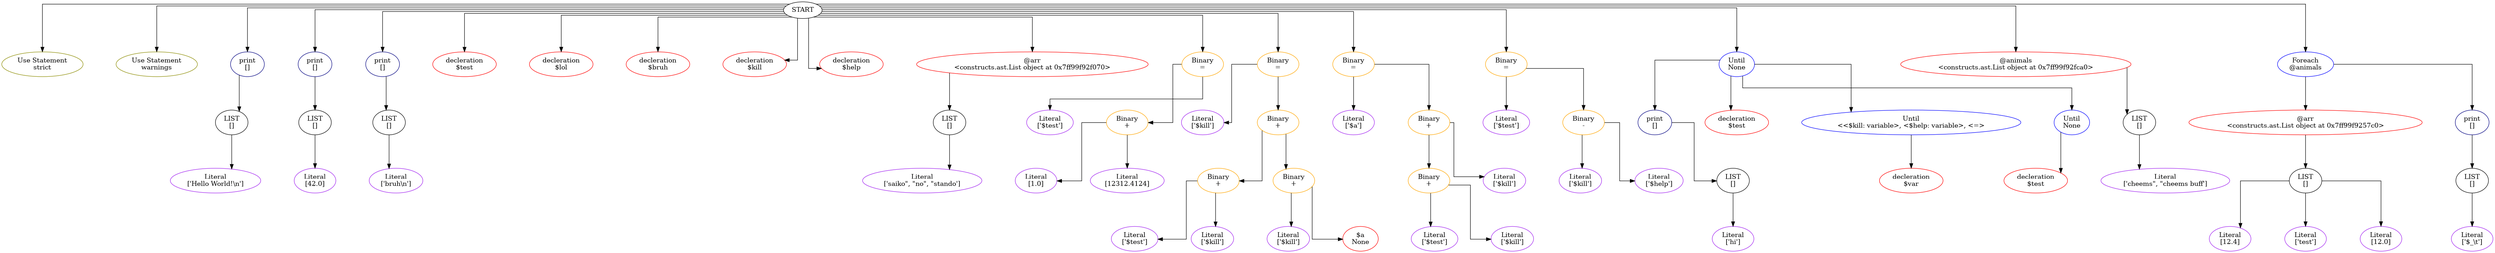
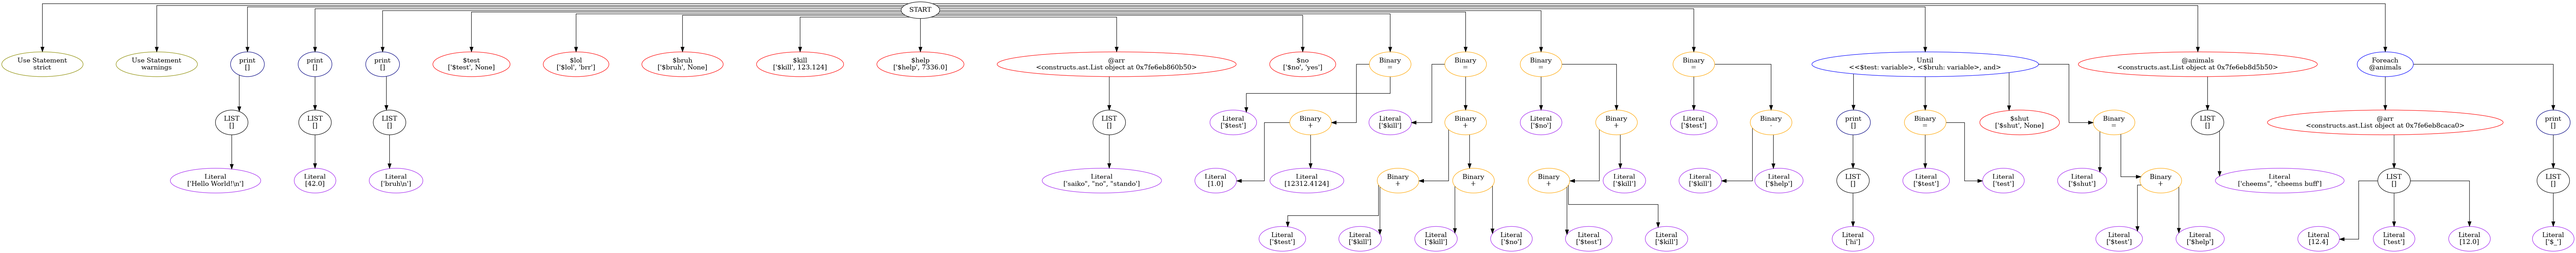
ICG complete

diff --git a/icg.py b/icg.py
@@ -1,11 +1,12 @@
 from constructs.ast import *
+from constructs.symbol_table import SymbolInfo, SymbolTable
+
 class Quad:
     dest = None
     op1 = None
     op2 = None
     operator = None
-
-    #  func_name = None
+#  func_name = None
 
     def __init__(self, dest, op1, op2, operator):
         self.dest = dest
@@ -23,10 +24,16 @@ class IntermediateCode:
         #  self.code_list: List[Quad] = {Quad.func_name: []}
         self.code_list: List[Quad] = []
         self.temp_var_count = 0
+        self.label_count = 0
+        self.loop_stack = []
 
     def get_new_temp_var(self):
         self.temp_var_count += 1
         return "t" + str(self.temp_var_count)
+
+    def get_new_label(self):
+        self.label_count += 1
+        return "LABEL_" + str(self.label_count)
 
     def add_to_list(self, code: Quad):
         self.code_list.append(code)
@@ -34,47 +41,189 @@ class IntermediateCode:
 
     def print_three_address_code(self):
         for i in self.code_list:
-            print("{} = {} {} {}".format(i.dest, i.op1, i.operator, i.op2))
-        #  for i in self.code_list:
-        #      print("{} : ".format(i))
-        #      for j in range(len(self.code_list[i])):
-        #          print("%5d:\t" % j, self.code_list[i][j])
+            dest = i.dest
+            op1 = i.op1
+            operator = i.operator
+            op2 = i.op2
+
+            if isinstance(dest, SymbolInfo):
+                dest = dest.name
+            if isinstance(op1, SymbolInfo):
+                op1 = op1.name
+            if isinstance(op2, SymbolInfo):
+                op2 = op2.name
+            if operator == '=':
+                print("{} = {}".format(dest, op1))
+            elif operator == 'Label: ':
+                print("{}{}".format(operator, dest))
+            elif operator == 'if':
+                print("{} {} goto {}".format(operator, op1, dest))
+            elif operator == 'ifFalse':
+                print("{} goto {}".format(operator, dest))
+            elif operator == 'print':
+                print("call print")
+            elif operator == 'push':
+                print("push {}".format(dest))
+            elif operator == 'use':
+                print("call use")
+            elif operator == 'call_return':
+                print("{} = call {}".format(dest, op1))
+            elif operator == 'goto':
+                print("goto {}".format(dest))
+            elif operator == '++':
+                op = op1
+                if(op1 is None):
+                    op = op2
+                print("{} = {} + 1".format(dest, op))
+            else:
+                print("{} = {} {} {}".format(dest, op1, operator, op2))
 
 
 
-def _recur_codegen(node, ic):
+def _recur_codegen(node, ic: IntermediateCode, symtab: SymbolTable):
     # process all child nodes before parent
     # ast is from right to left, so need to traverse in reverse order
 
-    node_class_name = node.__class__.__name__
+    if isinstance(node, Until):
+        l = ic.get_new_label()
+        ic.add_to_list(Quad(l, None, None, "Label: "))
+        true_l = ic.get_new_label()
+        false_l = ic.get_new_label()
+        condition = node.data
+        condition_res = _recur_codegen(condition, ic, symtab)
+        ic.add_to_list(Quad(true_l, condition_res.name, None, "if"))
+        ic.add_to_list(Quad(false_l, None, None, "ifFalse"))
+        ic.add_to_list(Quad(true_l, None, None, "Label: "))
+        symtab.enter_scope()
+        body = node.children
+        # body.reverse()
+        for i in body:
+            _recur_codegen(i, ic, symtab)
+        symtab.leave_scope()
+        node.children = []
+        ic.add_to_list(Quad(l, None, None, "goto"))
+        ic.add_to_list(Quad(false_l, None, None, "Label: "))
+
+    elif isinstance(node, Foreach):
+        lab = ic.get_new_label()
+        ic.add_to_list(Quad(lab, None, None, "Label: "))
+        true_l = ic.get_new_label()
+        false_l = ic.get_new_label()
+        iterator = node.data
+        # i = 0
+        t_i = ic.get_new_temp_var()
+        symtab.add_if_not_exists(t_i)
+        i = symtab.get_symbol(t_i)
+        i.value = 0
+        ic.add_to_list(Quad(i.name, 0, None, '='))
+        # l = range(iterator)
+        t_l = ic.get_new_temp_var()
+        symtab.add_if_not_exists(t_l)
+        l = symtab.get_symbol(t_l)
+        ic.add_to_list(Quad(iterator, None, None, "push"))
+        ic.add_to_list(Quad(l.name, "len", None, "call_return"))
+        # i < l
+        t_r = ic.get_new_temp_var()
+        symtab.add_if_not_exists(t_r)
+        r = symtab.get_symbol(t_l)
+        ic.add_to_list(Quad(r.name, i.name, l.name, '<'))
+        # checking condition
+        # res = _recur_codegen(iterator, ic, symtab)
+        ic.add_to_list(Quad(true_l, r.name, None, "if"))
+        ic.add_to_list(Quad(false_l, None, None, "ifFalse"))
+        ic.add_to_list(Quad(true_l, None, None, "Label: "))
+        # body
+        symtab.enter_scope()
+        body = node.children
+        ic.loop_stack.append((i, iterator))
+        # body.reverse()
+        for ibrr in body:
+            _recur_codegen(ibrr, ic, symtab)
+        symtab.leave_scope()
+        # i++
+        ic.add_to_list(Quad(i.name, i.name, None, '++'))
+        node.children = []
+        ic.add_to_list(Quad(lab, None, None, "goto"))
+        ic.add_to_list(Quad(false_l, None, None, "Label: "))
 
     new_children = []
-    for child in reversed(node.children):
-        new_children.append(_recur_codegen(child, ic))
+    print("PRINTING NODE CHILDREN:", node.children)
+    for child in node.children:
+        new_children.append(_recur_codegen(child, ic, symtab))
 
     new_children.reverse()
+    return_val = None
 
-    return_val = []
+    if isinstance(node, (BinOP, RelationalExpr, LogicalExprBin)):
+        if node.operator == '=':
+            ic.add_to_list(Quad(new_children[1], new_children[0], None, node.operator))
+            return_val = new_children[1]
+        else:
+            temp = ic.get_new_temp_var()
+            symtab.add_if_not_exists(temp)
+            temp_symbol = symtab.get_symbol(temp)
+            temp_symbol.value = node
+            if (len(new_children) < 2):
+                new_children.append(None)
+            ic.add_to_list(Quad(temp_symbol, new_children[0], new_children[1], node.operator))
+            return_val = temp_symbol
 
-    tac_fn_name = f"tac_{node_class_name}"
+    elif isinstance(node, Use):
+        ic.add_to_list(Quad(node.data, None, None, "push"))
+        ic.add_to_list(Quad(None, None, None, "use"))
 
-    # if tac_fn_name in globals():
-    #     globals()[tac_fn_name](ic, node, new_children, return_val)
-    if isinstance(node, BinOP):
-        print(node)
-        print("calling necessary functions")
+    elif isinstance(node, Literal):
+        return_val = node
+        if (node.type == "variable" and node.value == "$_"):
+            if (ic.loop_stack == []):
+                print("ERROR: CANNOT USE $_ as variable")
+            else:
+                t = ic.get_new_temp_var()
+                symtab.add_if_not_exists(t)
+                temp = symtab.get_symbol(t)
+                temp.value = ic.loop_stack[-1][1] + '[' + ic.loop_stack[-1][0].name + ']'
+                ic.add_to_list(Quad(temp.name, temp.value, None, '='))
+                return_val = temp
+            print("Literal:", node.value)
 
+    elif isinstance(node, List):
+        return_val = new_children
+
+    elif isinstance(node, Array):
+        print("ARRAY", node)
+        data = node.data
+        name = node.name
+        if isinstance(data, List):
+            data = data.children
+        if node.name is None:
+            name = name + "[" + str(int(node.index)) + "]"
+        ic.add_to_list(Quad(name, data, None, '='))
+
+    #     ic.add_to_list(Quad(node.))
+    elif isinstance(node, Decleration):
+        ic.add_to_list(Quad(node.name, node.value, None, '='))
+        return_val = node
+
+    elif isinstance(node, Print):
+        if (node.children is not None):
+            t = new_children[0]
+            print(t)
+            for i in t:
+                ic.add_to_list(Quad(i, None, None, "push"))
+            print(t)
+            ic.add_to_list(Quad(None, None, None, "print"))
+        else:
+            ic.add_to_list(Quad(node.data, None, None, "print"))
     else:
         print(f"Intermediate code is not yet implemented for node {node}")
 
-        return_val.append(node)
+        return_val = node
 
     return return_val
 
 
-def intermediate_codegen(ast):
+def intermediate_codegen(ast, symtab):
     ic = IntermediateCode()
 
-    _recur_codegen(ast, ic)
-
+    _recur_codegen(ast, ic, symtab)
     return ic

diff --git a/parser_yacc.py b/parser_yacc.py
@@ -69,6 +69,7 @@ def p_arr_decl(p):
     elif (len(p) == 8):
         symtab.add_if_not_exists(p[2])
         symtab.get_symbol(p[2]).value = p[5]
+        print(p[0])
         p[0] = Array(p[2], data=p[5])
         cprint("array declaration", p.lineno(1), p.lineno(7))
     symtab.get_symbol(p[2]).lineno = p.lineno(2)
@@ -86,7 +87,8 @@ def p_identifier_types(p):
         cprint("Identifier", p.lineno(1), p.lineno(1))
         if (p[1][1] == "VARNAME"):
             if (symbol is None):
-                print("Variable accessed before declaration.")
+                print("ERROR AT", p.lineno(1))
+                print("Variable accessed before declaration")
             else:
                 print(symbol)
             p[0] = Literal("variable", p[1][0])
@@ -96,6 +98,7 @@ def p_identifier_types(p):
             p[0] = Literal("string", p[1][0])
     else:
         if (symbol is None):
+            print("ERROR AT", p.lineno(1))
             print("Array used before declaration.")
         else:
             print(symbol)
@@ -220,8 +223,11 @@ def p_logical_expr(p):
                  | logical_expr_bin
                  | empty
     """
-    #cprint("logical expr", p.lineno(2), p.lineno(2))        
-    pass
+    #cprint("logical expr", p.lineno(2), p.lineno(2))
+    if (len(p) == 2):
+        p[0] = p[1]
+    elif (len(p) == 4):
+        p[0] = LogicalExprBin(p[2], left = p[1], right = p[3], type=bool)
 
 def p_logical_expr_bin(p):
     """
@@ -240,7 +246,10 @@ def p_logical_expr_main(p):
     logical_expr_main : NOT logical_expr
                      | logical_expr
     """
-    pass
+    if (len(p) == 2):
+        p[0] = p[1]
+    else:
+        p[0] = LogicalExprBin(p[1], right=p[2], type=bool)
 
 def p_expr(p):
     """
@@ -296,8 +305,15 @@ if __name__ == "__main__":
     print()
     print()
     print()
-    print("Printing AST")
-    print(start_ast.children)
-    print(start_ast.data)
+    # print("Printing AST")
+    # print(start_ast.children)
+    # print(start_ast.data)
     draw_AST(start_ast)
-    icg.intermediate_codegen(start_ast)
+    res = icg.intermediate_codegen(start_ast, symtab)
+    res.print_three_address_code()
+    print()
+    print()
+    print()
+    print("Printing SYMBOL_TABLE AFTER ICG")
+    print(symtab)
+

diff --git a/constructs/ast.py b/constructs/ast.py
@@ -66,6 +66,7 @@ class List(Node):
 
 class Print(Node):
     def __init__(self, string):
+        self.string = string
         if isinstance(string, Node):
             super().__init__("print", children=[string], data=[])
         else:
@@ -73,6 +74,7 @@ class Print(Node):
 
 class Until(Node):
     def __init__(self, condition, block):
+        print("Node: Until(condition = {}, block = {})".format(condition, block))
         super().__init__("Until", children=block, data=condition)
 
 class Foreach(Node):
@@ -80,16 +82,16 @@ class Foreach(Node):
         super().__init__("Foreach", children=block, data=iterator)
 
 class Decleration(Node):
-    def __init__(self, value, type=None):
+    def __init__(self, name, value=None):
         if isinstance(value, Node):
-            super().__init__("decleration", children=[value], data=[])
+            super().__init__("decleration", children=[value], data=[name])
         else:
-            super().__init__("decleration", children=[], data=value)
-        self.type = type
+            super().__init__("decleration", children=[], data=[name, value])
+        self.name = name
         self.value = value
 
     def __repr__(self):
-        return f'<{self.value}: {self.type}>'
+        return f'<{self.name}: {self.value}>'
 
 class LogicalExprBin(Node):
     def __init__(self, operator, left=None, right=None, type=None):
